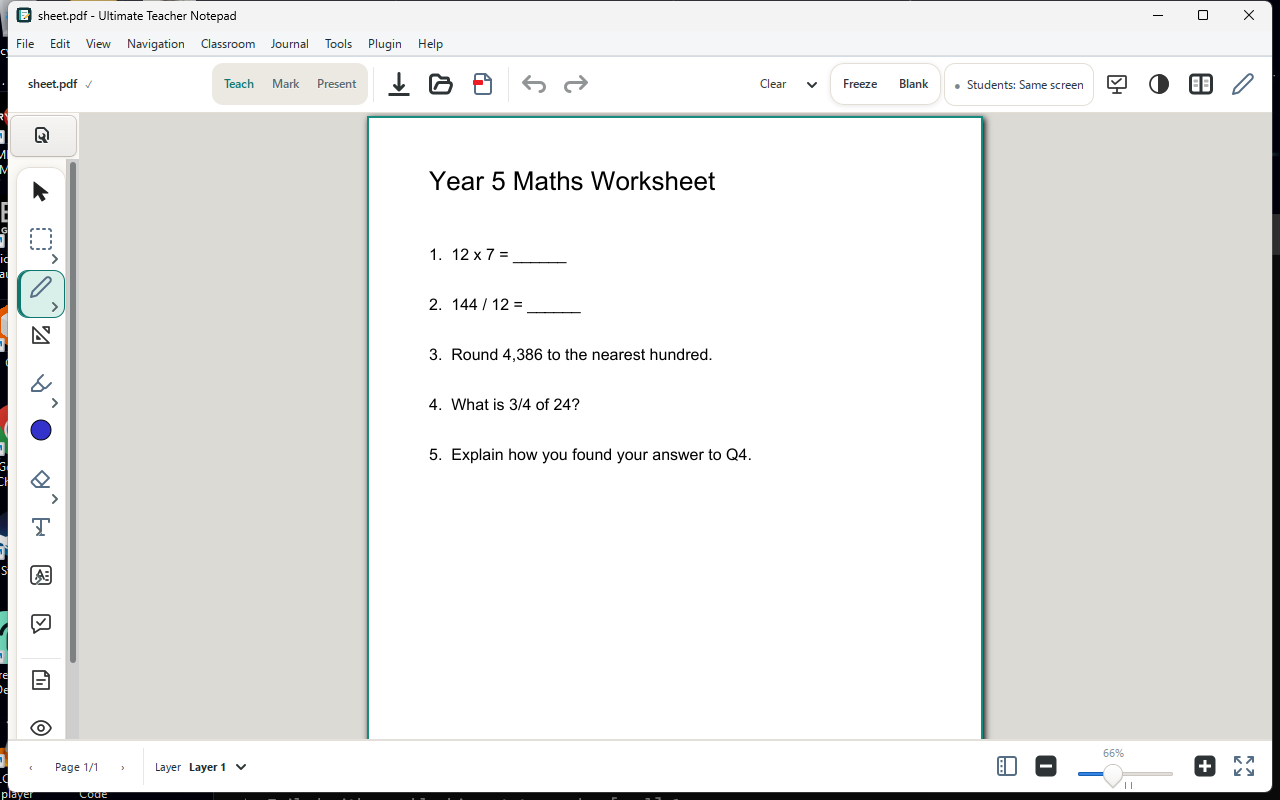
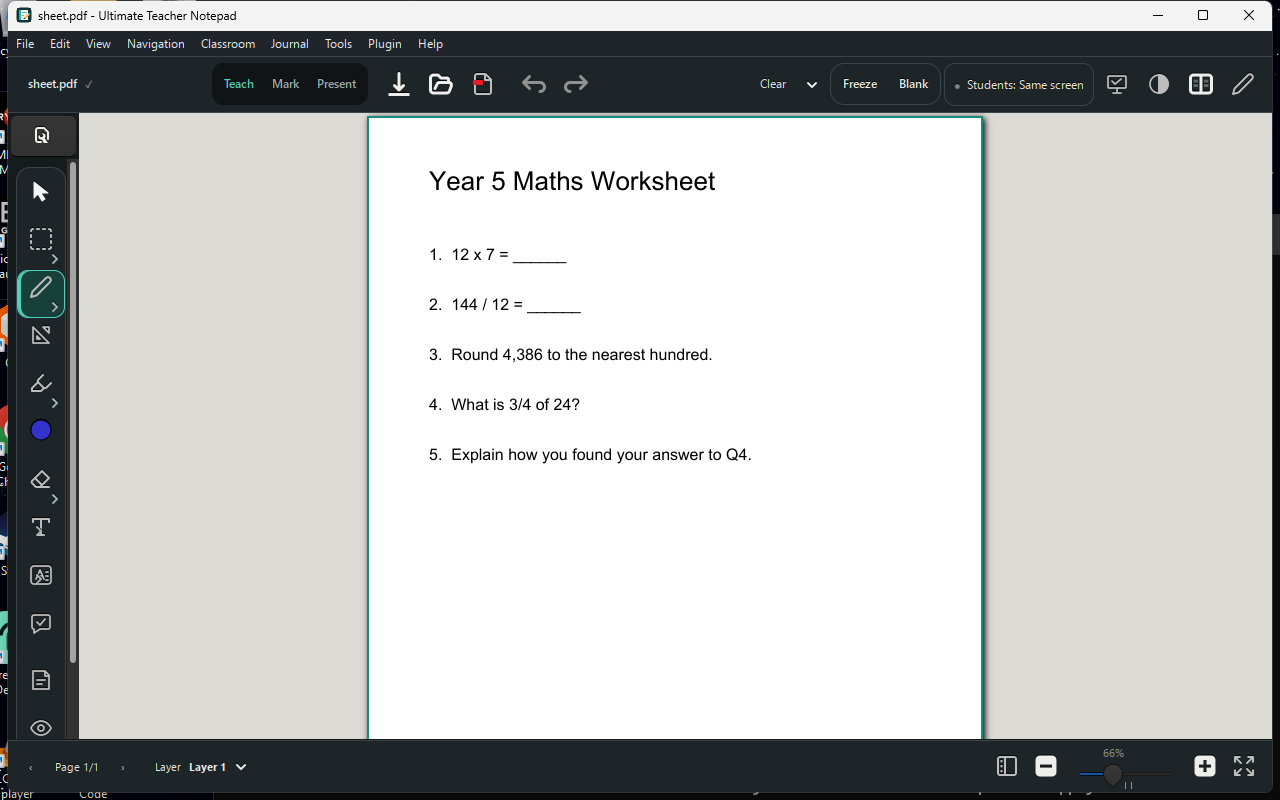
ui(rail): keyboard focus ring drawn inside rail tiles; real dark and constrained captures
Focus outlines on rail tiles were drawn outside the tile and clip against the
rail edge; they are now inset. Adds real-app dark (1280, 900) and 800x600
captures and records the header-overflow finding in the pass notes.

Changed region(s): [[0.0, 0.0312, 1.0, 1.0]]

diff --git a/ui/xournalpp.css b/ui/xournalpp.css
@@ -1443,3 +1443,12 @@ window.utnShell.darkMode #tbLeft1 button:checked button.utn-tool-options-corner 
 window.utnShell.darkMode #tbLeft1 button.utn-tool-options-corner:hover arrow {
     background-color: @utn_paper_dark_accent;
 }
+
+/* Keyboard focus on the rail is drawn inside each tile (the rail clips outside outlines) and the corner marker keeps a
+   tight ring so it does not spill over the icon. */
+window.utnShell #tbLeft1 button:focus {
+    outline-offset: -3px;
+}
+window.utnShell #tbLeft1 button.utn-tool-options-corner:focus {
+    outline-offset: -1px;
+}

diff --git a/docs/design/design-pass/DESIGN-PASS-2026-10-30.md b/docs/design/design-pass/DESIGN-PASS-2026-10-30.md
@@ -22,12 +22,22 @@ Captured from the installed UCRT64 build at 900, 1024 and 1280 px (`before/`):
 
 No annotation, classroom or Student View logic changed.
 
+## Keyboard focus (added)
+
+Rail tiles draw their keyboard focus ring inside the tile (`outline-offset: -3px`) and the corner marker keeps a tight ring, because the rail clips outside outlines. Seen in the running app: after 18 Tab presses the Select tile shows a full 2 px teal ring (`after/` captures were not kept; the check is described here only).
+
 ## Verification
 
-See the report in the commit message and `after/`. Not verified: dark theme capture (the forced-dark profile did not apply), keyboard traversal, DPI scaling, stylus input, 1280 touch mode.
+- Real-app captures (installed UCRT64 build, isolated profiles): `before/` 900 and 1024; `after/` light 900, 1024, 1280, 800x600 and dark 1280, 900. The dark captures come from a `themeVariant=forceDark` profile and show the dark chrome with the markers visible.
+- GTK integration suite 85/85 and unit suite 425/425 (soak and stress excluded).
+- Not verified: ring on the corner marker, DPI scaling, stylus and touch, and the Pen popover and Spotlight/Curtain overlays in the running app.
+
+## Responsive finding (not fixed)
+
+At 800x600 the header drops its right-hand controls (appearance toggle, two-pane view, pen) with no visible overflow cue, and the rail shows only about seven tools. Whether the menu bar still reaches those actions was not checked; either way a teacher cannot see that anything is hidden.
 
 ## Next priorities
 
-1. The rail scrolls: at 900x700 the Present/Reveal tools are below the fold. Group tools with separators and consider a pinned classroom group.
+1. Header overflow at narrow widths needs a visible "more" affordance. The rail scrolls: at 900x700 the Present/Reveal tools are below the fold. Group tools with separators and consider a pinned classroom group.
 2. Show short tool names beside or under icons for first-time teachers (the Automatic/Show/Hide label setting exists; default is Hide).
-3. A visible keyboard-focus ring on rail tiles and the options marker in all three themes.
+3. Check the options marker focus ring and High Contrast focus on the rail.
